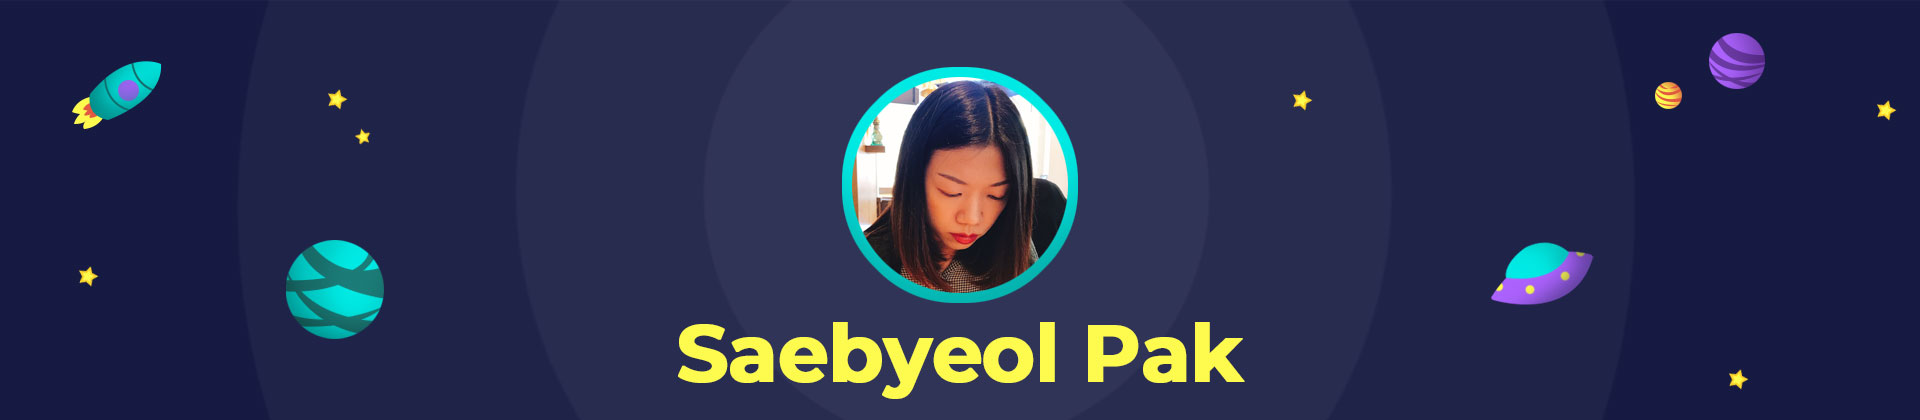
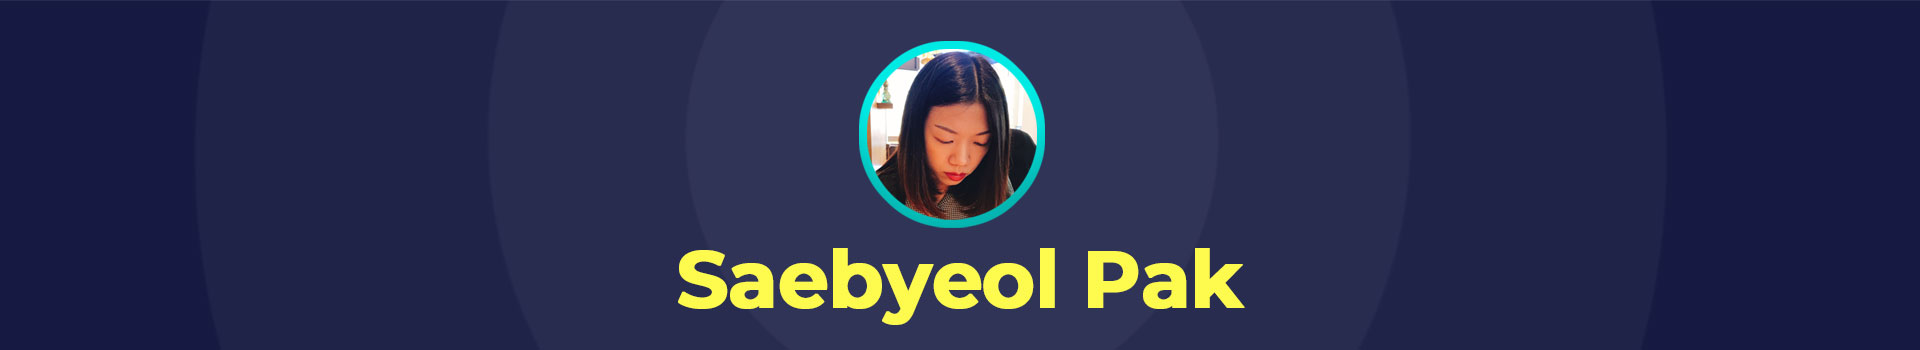
fixed

diff --git a/src/components/contents/Data.js b/src/components/contents/Data.js
@@ -2,49 +2,80 @@
 export let Data = [
     {
         id:1,
-        title:'work1',
-        href:"https://www.school.com",
-        github:"https://github.com/",
+        title:'Kovan',
+        href:"",
+        github:"https://github.com/bivt-cap/bivt-frontend",
         skills: [
           { skill:'React-Native' }, 
           { skill:'React-Hooks' },
           { skill:'Native-base' },
-          { skill:'HTML/CSS' }
         ],
-        bg: require('./../../img/work_bg.jpg'),
+        bg: require('./../../img/sample.png'),
         pic: require('./../../img/sample.png'),
         alt:'school1',
-        desc:"Lorem ipsum dolor sit amet, consectetur adipiscing elit. Mauris rhoncus malesuada ligula. Duis vitae accumsan diam. Mauris at sollicitudin lorem. In luctus felis lectus, aliquet sollicitudin metus tristique et."
+        desc:"All-in-one group management solution with 7 plug-ins.",
+        roles: [
+          { role:'Built and implemented to-do list and poll plugin with React Native, React Hooks.' },
+          { role:'Created graphs for poll plugin with SVG.' },
+          { role:'Styled the app with Native-Base' },
+          { role:'Built the promotional website using React.js' },
+        ]
       },
       {
         id:2,
-        title:'work2',
-        href:"https://www.school.com",
-        github:"https://github.com/",
+        title:'Easy Realty System',
+        href:"",
+        github:"https://github.com/jyotSarup/ez.dashboard",
         skills: [
-          { skill:'React' }, 
-          { skill:'React-Hooks' },
-          { skill:'Material-UI' },
-          { skill:'HTML/CSS' }
+          { skill:'React'}, 
+          { skill:'React-Hooks'},
+          { skill:'Material-UI'},
+          { skill:'SASS'}
         ],
-        bg: require('./../../img/work_bg.jpg'),
+        bg: require('./../../img/sample.png'),
         pic: require('./../../img/sample.png'),
         alt:'school2',
-        desc:"Lorem ipsum dolor sit amet, consectetur adipiscing elit. Mauris rhoncus malesuada ligula. Duis vitae accumsan diam. Mauris at sollicitudin lorem. In luctus felis lectus, aliquet sollicitudin metus tristique et."
+        desc:"Property management system for professional real estate agents.",
+        roles: [
+          { role:'Built the front-end of Easy Realty System’s property lists and fetched API using React.js, React Hooks and Material-UI.'},
+          { role:'Styled components with Sass.'},
+          { role:'Tested all features.'},
+        ]
       },
       {
         id:3,
-        title:'work3',
+        title:'Movie App',
         href:"",
-        github:"https://github.com/",
+        github:"https://github.com/saebyeolp/movieApp",
         skills: [
-          { skill:'HTML/CSS' }, 
-          { skill:'JavaScript' },
-          { skill:'Firebase' },
+          { skill:'React'}, 
+          { skill:'Material-UI'},
         ],
-        bg: require('./../../img/work_bg.jpg'),
+        bg: require('./../../img/sample.png'),
         pic: require('./../../img/sample.png'),
         alt:'school3',
-        desc:"Lorem ipsum dolor sit amet, consectetur adipiscing elit. Mauris rhoncus malesuada ligula. Duis vitae accumsan diam. Mauris at sollicitudin lorem. In luctus felis lectus, aliquet sollicitudin metus tristique et."
+        desc:"Web app with the features to search and filter Movies and TV shows ",
+        roles: [
+          { role:'Worked on the front-end of the app using HTML5, CSS3.'},
+          { role:'Created the wordpress website from scratch.'},
+        ]
+      },
+      {
+        id:4,
+        title:'Movie App',
+        href:"",
+        github:"https://github.com/saebyeolp/movieApp",
+        skills: [
+          { skill:'React'}, 
+          { skill:'Material-UI'},
+        ],
+        bg: require('./../../img/sample.png'),
+        pic: require('./../../img/sample.png'),
+        alt:'school3',
+        desc:"Web app with the features to search and filter Movie and TV show ",
+        roles: [
+          { role:'Worked on the front-end of the app using HTML5, CSS3.'},
+          { role:'Created the wordpress website from scratch.'},
+        ]
       },
 ]

diff --git a/src/App.css b/src/App.css
@@ -14,6 +14,7 @@
   min-width: 320px;
   text-align: center;
   font-family: 'Montserrat', sans-serif;
+  line-height: 1.4;
 }
 
 .subBox {
@@ -34,7 +35,7 @@
 
 .headerBox {
   width: 100%;
-  height: 340px;
+  height: 250px;
   background: url("./img/header.jpg") no-repeat 50% 0;
   background-size: cover;
   transition: ease-in .2s;
@@ -54,7 +55,6 @@
 }
 
 .aboutMeDetail {
-  line-height: 1.4;
   margin-bottom: 20px;
 }
 
@@ -123,42 +123,61 @@
 .MuiButton-text {
   padding: 0!important;
 }
+
+
 /***  Work ***/
 
 .workItem {
   width: 100%;
-  min-height: 180px;
-  background-color: #eee;
-  border-radius: 10px;
-  box-sizing: border-box;
-  text-align: left;
+  height: 50px; 
+  margin-bottom: 10px;
 }
 
-.workItem .workItemBtn {
-  width: 100%!important;
-  height: 180px!important;
+.workBox .cardBox {
   box-sizing: border-box;
-  text-align: left;
+  padding: 0 10px 10px;
+  min-height: 190px;
   position: relative;
+  background-color: #fcfcfc;
 }
 
-.workItem .workItemBg {
-  position: absolute;
-  top: 0;
-  bottom: 0;
-  z-index: 99;
-  border-radius: 20px;
-}
 
-.workItem .workItemTitle {
-  position: absolute;
-  bottom: 20px;
-  left: 30px;
-  z-index: 999;
-  font-size: 15px;
+.workBox .typo {
   font-family: 'Montserrat', sans-serif!important;
-  padding: 100px 0 0 0;
+  line-height: 1.4;
 }
+
+.workBox .cardTitle {
+  padding-top: 18px;
+  background: url(./img/star.png) no-repeat 50% 0%;
+  background-size: 12px 12px;
+}
+
+@media screen and ( max-width: 860px) {
+  .workBox .cardTitle {
+    font-size: 17px!important;
+  }
+}
+
+.workBox .cardDesc {
+  width: 100%;
+  min-height: 60px;
+  text-align: left;
+  padding-top: 10px;
+  font-size: 14px;
+}
+
+.workBox .linkBtn {
+  width: 100%;
+  text-align: center;
+}
+
+.workBox .linkBtn a {
+  display: inline-block;
+  width: 100%;
+  padding: 5px 0;
+}
+
 
 .workItem img {
   max-width: 100%;
@@ -179,6 +198,10 @@
 .workItemBox h3 {
   font-size: 30px;
   font-weight: bold;
+}
+
+.workItemBox .desc {
+  font-size: 18px;
 }
 
 .workItemBox img {
@@ -205,15 +228,24 @@
   margin: 0 6px 6px 0;
 }
 
-.workItemBox .desc {
-  line-height: 1.4;
-  font-weight: lighter;
-  margin: 0 0 25px 0;
+.workItemBox .myRole h3 {
+  font-size: 17px;
+  color: #555;
+}
+
+.workItemBox .myRole ul {
+  padding: 12px 0 0 0;
+}
+
+.workItemBox .myRole ul li {
+  background: url("./img/star.png") no-repeat 5px 6px;
+  background-size: 8px 8px; 
+  padding: 0 0 0 20px;
 }
 
 .workItemBox .github {
   text-align: center;
-  padding: 10px 0 30px;
+  padding: 30px 0 30px;
 }
 
 .workItemBox .github a {

diff --git a/src/components/contents/Work.js b/src/components/contents/Work.js
@@ -1,5 +1,5 @@
 import React from 'react'
-import { Container, Grid, Button, Typography } from '@material-ui/core';
+import { Container, Grid, Typography, Card, CardContent } from '@material-ui/core';
 import { Data } from './Data'
 import { Link } from 'react-router-dom'
 
@@ -17,16 +17,24 @@ const Work = () => {
                     
                     {data.map((item)=> (
                         <Grid item xs={12} sm={4}>
-                            <div className="workItem">
-                                <Link to={`/Work/${item.id}`}>
-                                    <Button className="workItemBtn">
-                                        {/* <img className="workItemBg" src={item.bg}/> */}
-                                        <Typography class="workItemTitle">{item.title}</Typography>
-                                    </Button>
-                                </Link>
-                            </div>
+                            <Card className="cardBox">
+                                <CardContent>
+                                    <Typography className="typo cardTitle" variant="h6" component="h3">
+                                        {item.title}
+                                    </Typography>
+                                    <Typography className="typo cardDesc" color="textSecondary">
+                                        {item.desc}
+                                    </Typography>
+                                </CardContent>
+                                <div className="linkBtn">
+                                    <Link to={`/Work/${item.id}`}>
+                                        <Typography class="workItemTitle">Learn More</Typography>
+                                    </Link>
+                                </div>
+                            </Card>
                         </Grid>
                     ))}
+                    
                 </Grid>
             </div>
         </Container>

diff --git a/src/components/contents/WorkItem.js b/src/components/contents/WorkItem.js
@@ -16,12 +16,23 @@ const WorkItem = ({match}) => {
         )
     }
 
+    const DisplayRoles = (props) => {
+        return (
+            <li>{props.eachRole}</li>
+        )
+    }
+
     return (
         <Container className="subBox" maxWidth="md">
             <div className="workItemBox">
-                <h3>{data.title}</h3>
+                 <h3>{data.title}</h3>
+                 <div className="desc">{data.desc}</div>
                 {
-                    data.href.length > 1 ? <div className="link"><a href={data.href} target="_blank">{data.href}</a></div> : <div></div>
+                    data.href.length > 1 ? 
+                    <div className="link">
+                        <a href={data.href} target="_blank">{data.href}</a>
+                    </div> : 
+                    ""
                 }
                 <div className="skills">
                     { data.skills.map((item)=> {
@@ -33,7 +44,19 @@ const WorkItem = ({match}) => {
                     })
                   }
                 </div>
-                <div className="desc">{data.desc}</div>
+                <div className="myRole">
+                    <h3>My Role as a front-end developer</h3>
+                    <ul>
+                        { data.roles.map((item)=> {
+                            return(
+                                <DisplayRoles
+                                    eachRole={item.role}
+                                />
+                            )
+                        })
+                        }
+                    </ul>
+                </div>
                 <div className="github"><a href={data.github} target="_blank">View on Github</a></div>
                 <div>
                     <img src={data.pic}></img>

diff --git a/src/components/contents/Work copy.js b/src/components/contents/Work copy.js
@@ -1,0 +1,37 @@
+import React from 'react'
+import { Container, Grid, Button, Typography } from '@material-ui/core';
+import { Data } from './Data'
+import { Link } from 'react-router-dom'
+
+
+
+const Work = () => {
+
+    const [ data, setData ] = React.useState(Data);
+  
+    return (
+        <Container className="subBox" maxWidth="md">
+            <div className="workBox">
+                <h1 className="subTitle">Work</h1>
+                <Grid container spacing={2}>
+                    
+                    {data.map((item)=> (
+                        <Grid item xs={12} sm={4}>
+                            <div className="workItem">
+                                <Link to={`/Work/${item.id}`}>
+                                    <Button className="workItemBtn">
+                                        {/* <img className="workItemBg" src={item.bg}/> */}
+                                        <Typography class="workItemTitle">{item.title}</Typography>
+                                    </Button>
+                                </Link>
+                            </div>
+                        </Grid>
+                    ))}
+                    
+                </Grid>
+            </div>
+        </Container>
+    )
+}
+
+export default Work
